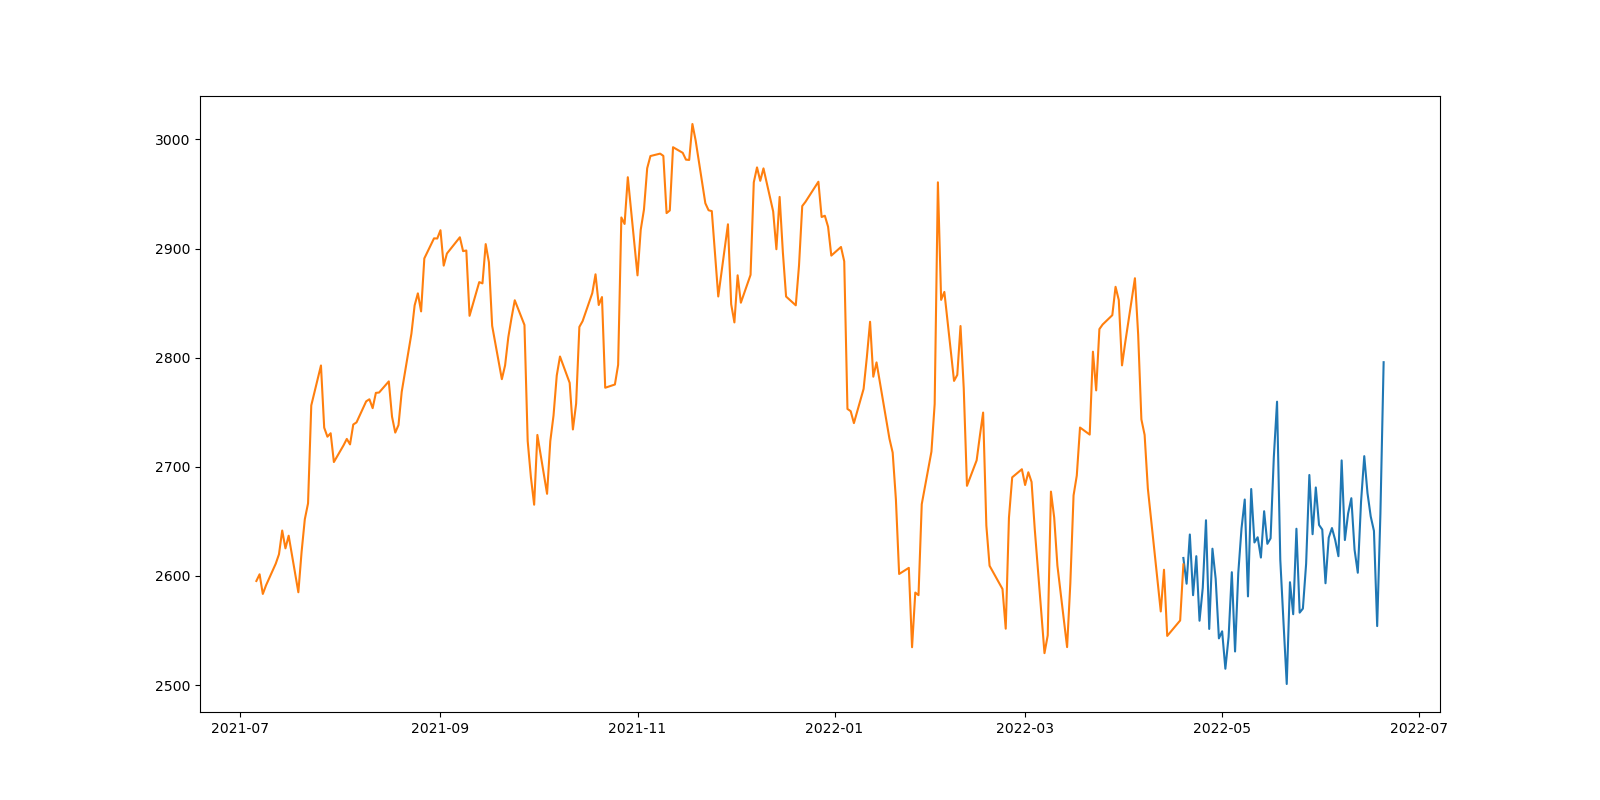
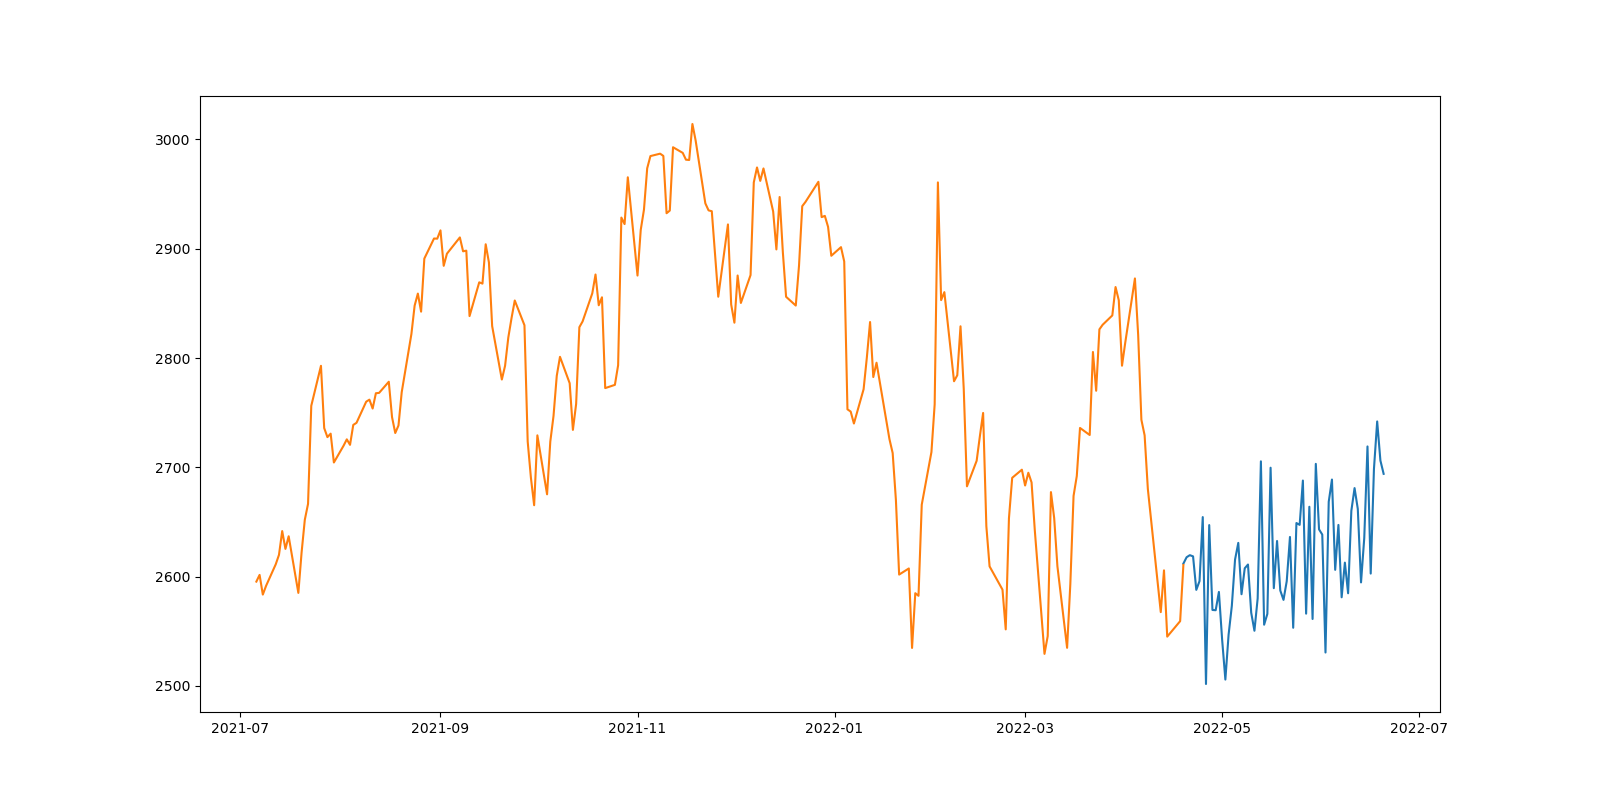
add Irfan's code

Changed region(s): [[0.7188, 0.5312, 0.875, 0.8438], [0.0938, 0.5625, 0.125, 0.5938], [0.0938, 0.4375, 0.125, 0.4688]]

diff --git a/backend/prophet_manager.py b/backend/prophet_manager.py
@@ -1,0 +1,129 @@
+#from information import client_id
+import requests
+import numpy as np
+import pandas as pd
+from datetime import datetime
+import random
+# For visualizations
+import plotly.graph_objects as go
+import matplotlib.pyplot as plt
+# For time series modeling
+import statsmodels.api as sm
+from statsmodels.tsa.stattools import adfuller
+from statsmodels.graphics.tsaplots import plot_acf, plot_pacf
+from statsmodels.tsa.arima_model import ARMA
+import yfinance as yf
+import statistics
+
+dataframe = yf.download('GOOG','2021-01-21','2022-04-20')
+dataObama = yf.download('GOOG','2009-01-20','2017-01-21')
+dataForFindingImmediateGrowth = yf.download("GOOG",'2020-10-30','2020-11-06')
+tickerInfoForRecs = yf.Ticker("GOOG")
+
+dailyIncrease = 1 + ((dataObama.iloc[len(dataObama)-1]['Close'] - dataObama.iloc[0]['Close']) / (dataObama.iloc[0]['Close'])) / (len(dataObama))
+
+def calc_return(dataframe, lag = 1):
+    """
+    Adds a column of the previous close to the dataframe. Lag is a user-input parameter.
+    """
+    prevClose = [x for x in dataframe['Close'][:-lag]]
+    prevClose = [np.nan for i in range(lag)] + prevClose
+    dataframe[f'{lag}-day prevClose'] = prevClose
+    dataframe['return'] = np.log(dataframe[f'{lag}-day prevClose']).diff()
+    
+    return dataframe
+
+calc_return(dataframe, lag=1)
+
+def mean_std(dataframe, length=20):
+    """
+    Adds 2 columns to our dataframe: A rolling mean and standard deviations of user-defined lengths
+    """
+    dataframe[f'sma{length}'] = dataframe['return'].rolling(length).mean()
+    dataframe[f'std{length}'] = dataframe['return'].rolling(length).std()
+    # Remove leading NaNs
+    dataframe.dropna(inplace=True)
+    
+mean_std(dataframe)
+def main():
+    dftest = sm.tsa.adfuller(dataframe['return'], autolag='AIC')
+    dfoutput = pd.Series(dftest[0:4], index=['Test Statistic', 'p-value', '#Lags Used', 'Number of Observation Used'])
+    for key, value in dftest[4].items():
+        dfoutput['Critical Value ({0})'.format(key)] = value
+
+    ar1 = ARMA(tuple(dataframe['return']), (6,6)).fit()
+    ar1.summary()
+
+    # Generate predictions
+    preds = ar1.fittedvalues
+
+    # Add predictions to our dataframe
+    dataframe['predictions'] = dataframe[dataframe.columns[1]] * (1 + preds)
+
+    steps = 63
+
+    # Define forecast array for 2 days into the future
+    # forecast = ar1.forecast(steps=steps)[0]
+    # forecast1 = dataframe['Close'][-1] * (1 + forecast[0])
+    # forecast2 = forecast1 * (1 + forecast[1])
+    # forecast_array = np.array([forecast1, forecast2])
+
+    forecast = ar1.forecast(steps=steps)[0]
+    prevForecast = dataframe['Close'][-1] * (1 + forecast[0])
+    forecast_array = [prevForecast]
+    for i in range(steps-1):
+        currForecast = prevForecast * (1 + forecast[i])
+        prevForecast = currForecast
+        forecast_array.append(currForecast)
+
+    forecastBidenANDObama = np.array(forecast_array)*dailyIncrease
+
+    mean_forecast_array = np.mean([forecast_array, forecastBidenANDObama], axis=0)
+
+    noise = np.random.normal(0, 50, 63)
+    plt.figure(figsize = (16,8))
+    fc = pd.Series(mean_forecast_array + noise, index = pd.date_range(pd.DataFrame(dataframe.iloc[len(dataframe)-1]).columns[0], periods=63).tolist())
+    plt.plot(fc)
+    plt.plot(dataframe['Close'][-200:])
+    plt.savefig("STATIC/test.png")
+
+    immediateIncrease = ((dataForFindingImmediateGrowth.iloc[len(dataForFindingImmediateGrowth)-1]['Close'] - dataForFindingImmediateGrowth.iloc[0]['Close']) / (dataForFindingImmediateGrowth.iloc[0]['Close']))
+    immediateIncrease = immediateIncrease*100
+    print(immediateIncrease, "immediate percent increase from Biden becoming President seen in a week (short term)")
+
+    longTermIncrease = ((dataframe.iloc[len(dataframe)-1]['Close'] - dataframe.iloc[0]['Close']) / (dataframe.iloc[0]['Close']))
+    longTermIncrease = longTermIncrease * 100
+    print(longTermIncrease, "overall percent increase during Biden presidency (long term)")
+
+    maxTermIncrease = (dataframe['Close'].max() - dataframe.iloc[0]['Close']) / (dataframe.iloc[0]['Close'])
+    maxTermIncrease = maxTermIncrease * 100
+    print(maxTermIncrease, "percent increase seen at peak during Biden presidency (long term)")
+
+    obamaTermIncrease = (dataObama.iloc[len(dataObama)-1]['Close'] - dataObama.iloc[0]['Close']) / (dataObama.iloc[0]['Close'])
+    obamaTermIncrease = obamaTermIncrease * 100 
+    print(obamaTermIncrease, "percent increase seen during course of Obama presidency (long term)")
+
+
+    recs = tickerInfoForRecs.recommendations
+
+    recObama = recs.copy().reset_index()
+    recObama = recObama[recObama['Date'] <= '2017-01-19 12:54:43']
+
+    recBiden = recs.copy().reset_index()
+    recBiden = recBiden[recBiden['Date'] > '2021-01-15 10:34:45']
+    recBiden
+
+    countsOfGradeObama = pd.DataFrame(recObama.groupby('To Grade').count()['Firm']).reset_index()
+    totalCountObama = sum(countsOfGradeObama['Firm'])
+    countsOfGoodObama = countsOfGradeObama[(countsOfGradeObama['To Grade'] == 'Buy') | (countsOfGradeObama['To Grade'] == 'Outperform') | (countsOfGradeObama['To Grade'] == 'Overweight')]
+    sumOfGoodObama = sum(countsOfGoodObama['Firm'])
+
+    countsOfGradeBiden = pd.DataFrame(recBiden.groupby('To Grade').count()['Firm']).reset_index()
+    totalCountBiden = sum(countsOfGradeObama['Firm'])
+    countsOfGoodBiden = countsOfGradeBiden[(countsOfGradeBiden['To Grade'] == 'Buy') | (countsOfGradeBiden['To Grade'] == 'Outperform') | (countsOfGradeBiden['To Grade'] == 'Overweight')]
+    sumOfGoodBiden = sum(countsOfGoodBiden['Firm'])
+
+    print((sumOfGoodObama / totalCountObama)*100, "- percent of Buy/Overweight/Market Outperform ratings during Obama Presidency.")
+    print((sumOfGoodBiden / totalCountBiden)*100, "- percent of Buy/Overweight/Market Outperform ratings during Biden Presidency so far.")
+    
+main()
